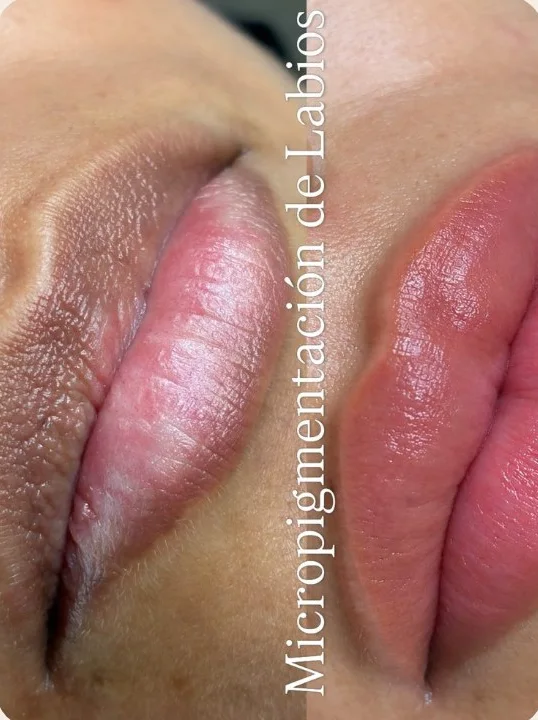
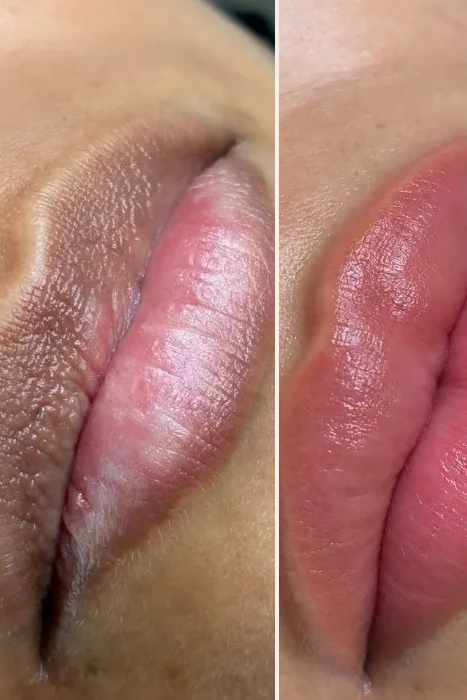
Preview: resultados sin textos en las tres fotos
Claude-Session: https://claude.ai/code/session_018BYjRJj9aaHeVeXThXSq6a

diff --git a/preview.html b/preview.html
@@ -472,9 +472,9 @@ a:focus-visible,button:focus-visible,summary:focus-visible{outline:2px solid #A3
 <figcaption>Micropigmentación de cejas hiperrealista</figcaption>
 </figure>
 <div class="fl-gallery">
-<figure class="fl-rv"><img loading="lazy" src="img/res-labios.webp" alt="Labios antes y después" width="538" height="720"><figcaption>Labios, antes y después</figcaption></figure>
-<figure class="fl-rv"><img loading="lazy" src="img/res-color.webp" alt="Labios con color parejo y bordes definidos" width="540" height="720"><figcaption>Color parejo y bordes definidos</figcaption></figure>
-<figure class="fl-rv"><img loading="lazy" src="img/res-cejas.webp" alt="Cejas y labios en la misma clienta" width="540" height="720"><figcaption>Cejas y labios en la misma clienta</figcaption></figure>
+<figure class="fl-rv"><img loading="lazy" src="img/res-labios.webp?v=2" alt="Labios antes y después" width="467" height="700"></figure>
+<figure class="fl-rv"><img loading="lazy" src="img/res-color.webp" alt="Labios con color parejo y bordes definidos" width="540" height="720"></figure>
+<figure class="fl-rv"><img loading="lazy" src="img/res-cejas.webp" alt="Cejas y labios en la misma clienta" width="540" height="720"></figure>
 </div>
 </div>
 </section>
